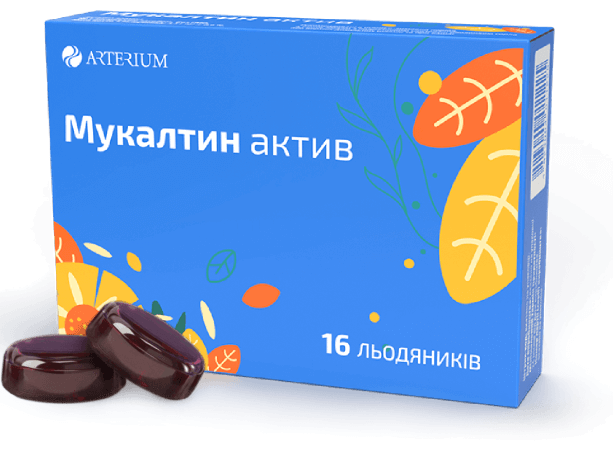
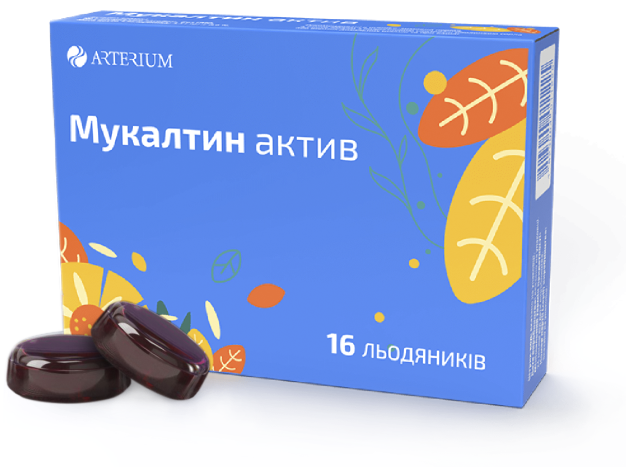
added section-circumstances

diff --git a/index.html b/index.html
@@ -209,7 +209,7 @@
                                   </svg>
                             </span>Придбати
                         </a>
-                        <a href="#" class="btn btn_stroke-blue">
+                        <a href="#" class="btn btn_stroke">
                              <span class="btn__icon">
                                 <svg width="24" height="25">
                                       <use xlink:href="#information-circle"></use>
@@ -365,8 +365,9 @@
                 <div class="section-advantages__layout">
                     <div class="part_left">
                         <article class="section-advantages__article">
-                            <h2 class="section-advantages__article-title"><strong>ВІДЧУЙ ОСОБЛИВОСТІ</strong>
-                                МУКАЛТИН АКТИВ У МУЗИЧНОМУ РИТМІ...</h2>
+                            <h2 class="section-advantages__article-title title_md">
+                                <strong>ВІДЧУЙ ОСОБЛИВОСТІ</strong>
+                                <br> МУКАЛТИН АКТИВ У МУЗИЧНОМУ РИТМІ...</h2>
 
                             <ul class="advantages-list">
                                 <li class="advantages-list__item">
@@ -397,7 +398,7 @@
             <div class="section-advantages__footer">
                 <div class="container">
                     <div class="section-advantages__footer-title">
-                        <h3>«МУКАЛТИН АКТИВ» – У КАШЛЮ НЕМА ПЕРСПЕКТИВ!</h3>
+                        <h3 class="title_md"> <strong>«МУКАЛТИН АКТИВ»</strong> – У КАШЛЮ НЕМА ПЕРСПЕКТИВ!</h3>
                     </div>
 
                     <div class="btns-wrap">
@@ -424,7 +425,7 @@
             <div class="container">
                 <div class="d-flex">
                     <div class="part_left">
-                        <img src="assets/img/package.png" alt="Упаковка 'Мукалтин актив'" width="373" height="241">
+                        <img src="assets/img/package.png" alt="Упаковка 'Мукалтин актив'" width="626" height="467">
                     </div>
                     <div class="part_right">
                         <div class="card-take">

diff --git a/dist/main.css b/dist/main.css
@@ -1788,7 +1788,8 @@ body.modal_open {
 .section-advantages .player-wrap {
   position: relative;
   width: 100%;
-  padding-top: 54%;
+  max-width: 583px;
+  padding-top: 55.5%;
   background: #FDE6D9;
   border-radius: 10px;
   overflow: hidden;
@@ -1797,8 +1798,6 @@ body.modal_open {
 
 .section-advantages .part_left {
   position: relative;
-  padding-top: 80px;
-  padding-bottom: 160px;
   min-height: 450px;
   width: 45%;
   flex-shrink: 0;
@@ -1820,7 +1819,7 @@ body.modal_open {
   position: absolute;
   top: 50%;
   transform: translate(50%, -50%);
-  right: 0%;
+  right: 0;
   width: 68px;
   height: 425px;
   background: url("../assets/img/green-wave.svg") center no-repeat;
@@ -1830,9 +1829,6 @@ body.modal_open {
 .section-advantages .section-advantages__article {
   position: relative;
   padding: 80px 40px 110px 30px;
-  font-family: 'Exo 2';
-  font-style: normal;
-  font-weight: 400;
   font-size: 20px;
   line-height: 24px;
   color: #39414D;
@@ -1840,13 +1836,14 @@ body.modal_open {
 }
 
 .section-advantages .section-advantages__article-title {
-  margin-bottom: 30px;
+  line-height: 1.2;
+  margin-bottom: 44px;
 }
 
 .section-advantages .advantages-list__item {
   max-width: 410px;
   width: 100%;
-  margin: 0 auto 10px;
+  margin: 0 auto 15px;
 }
 
 .section-advantages .advantages-list__item:after {
@@ -1855,7 +1852,7 @@ body.modal_open {
   height: 10px;
   width: 100%;
   background: url(../assets/img/dots.svg) center center no-repeat;
-  margin-top: 10px;
+  margin-top: 15px;
 }
 
 .section-advantages .section-advantages__footer {
@@ -1868,8 +1865,6 @@ body.modal_open {
   background: #2F766E;
   border-radius: 10px;
   text-transform: uppercase;
-  font-family: 'Exo 2';
-  font-style: normal;
   font-weight: 600;
   font-size: 30px;
   line-height: 36px;

diff --git a/src/scss/layout/section/section-advantages.scss b/src/scss/layout/section/section-advantages.scss
@@ -1,6 +1,5 @@
 .section-advantages {
   position: relative;
-
   &:before {
     content: '';
     display: block;
@@ -41,7 +40,8 @@
   .player-wrap {
     position: relative;
     width: 100%;
-    padding-top: 54%;
+    max-width: 583px;
+    padding-top: 55.5%;
     background: #FDE6D9;
     border-radius: 10px;
     overflow: hidden;
@@ -50,8 +50,6 @@
 
   .part_left {
     position: relative;
-    padding-top: 80px;
-    padding-bottom: 160px;
     min-height: 450px;
     width: 45%;
     flex-shrink: 0;
@@ -72,7 +70,7 @@
       position: absolute;
       top: 50%;
       transform: translate(50%, -50%);
-      right: 0%;
+      right: 0;
       width: 68px;
       height: 425px;
       background: url("../assets/img/green-wave.svg") center no-repeat;
@@ -83,9 +81,6 @@
   .section-advantages__article {
     position: relative;
     padding: 80px 40px 110px 30px;
-    font-family: 'Exo 2';
-    font-style: normal;
-    font-weight: 400;
     font-size: 20px;
     line-height: 24px;
     color: #39414D;
@@ -93,13 +88,14 @@
   }
 
   .section-advantages__article-title {
-    margin-bottom: 30px;
+    line-height: 1.2;
+    margin-bottom: 44px;
   }
 
   .advantages-list__item {
     max-width: 410px;
     width: 100%;
-    margin: 0 auto 10px;
+    margin: 0 auto 15px;
 
     &:after {
       content: '';
@@ -107,7 +103,7 @@
       height: 10px;
       width: 100%;
       background: url(../assets/img/dots.svg) center center no-repeat;
-      margin-top: 10px;
+      margin-top: 15px;
     }
   }
 
@@ -121,8 +117,6 @@
     background: #2F766E;
     border-radius: 10px;
     text-transform: uppercase;
-    font-family: 'Exo 2';
-    font-style: normal;
     font-weight: 600;
     font-size: 30px;
     line-height: 36px;
